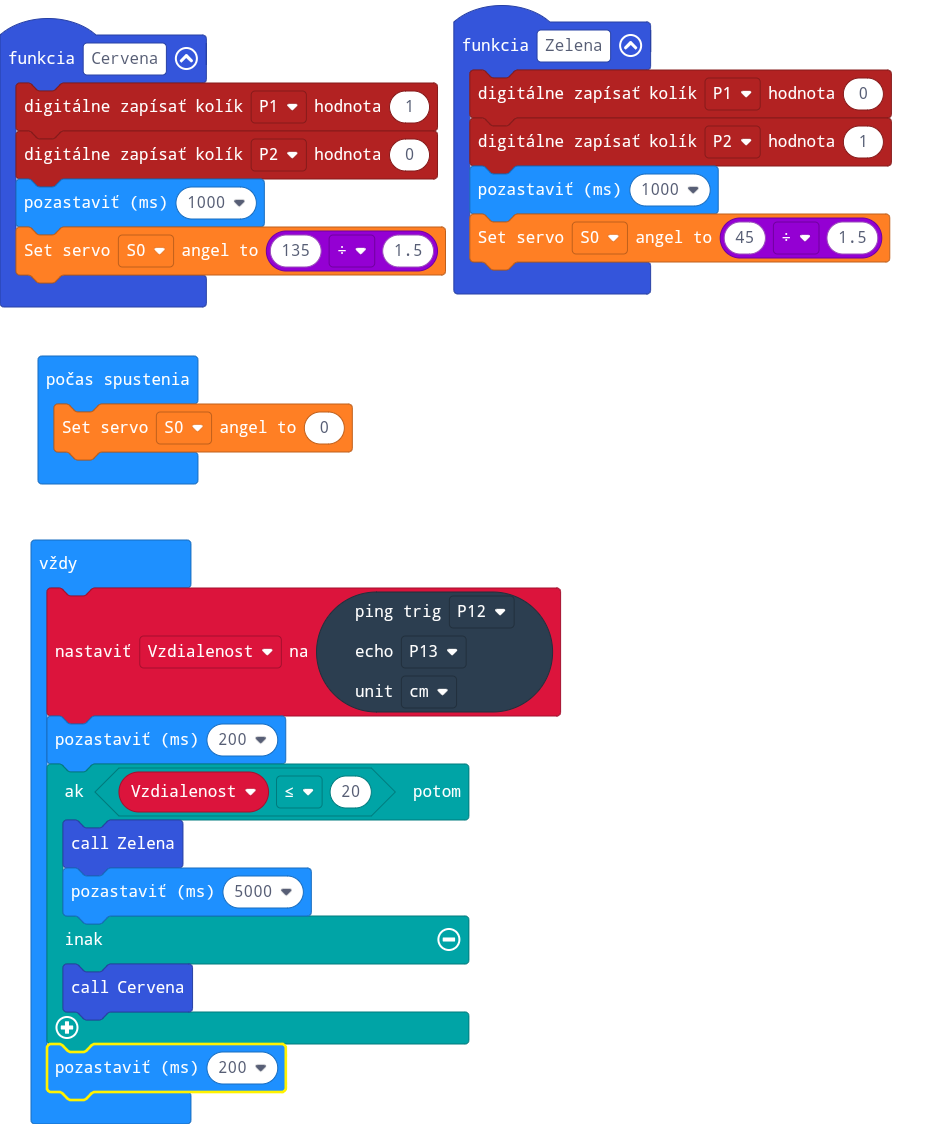
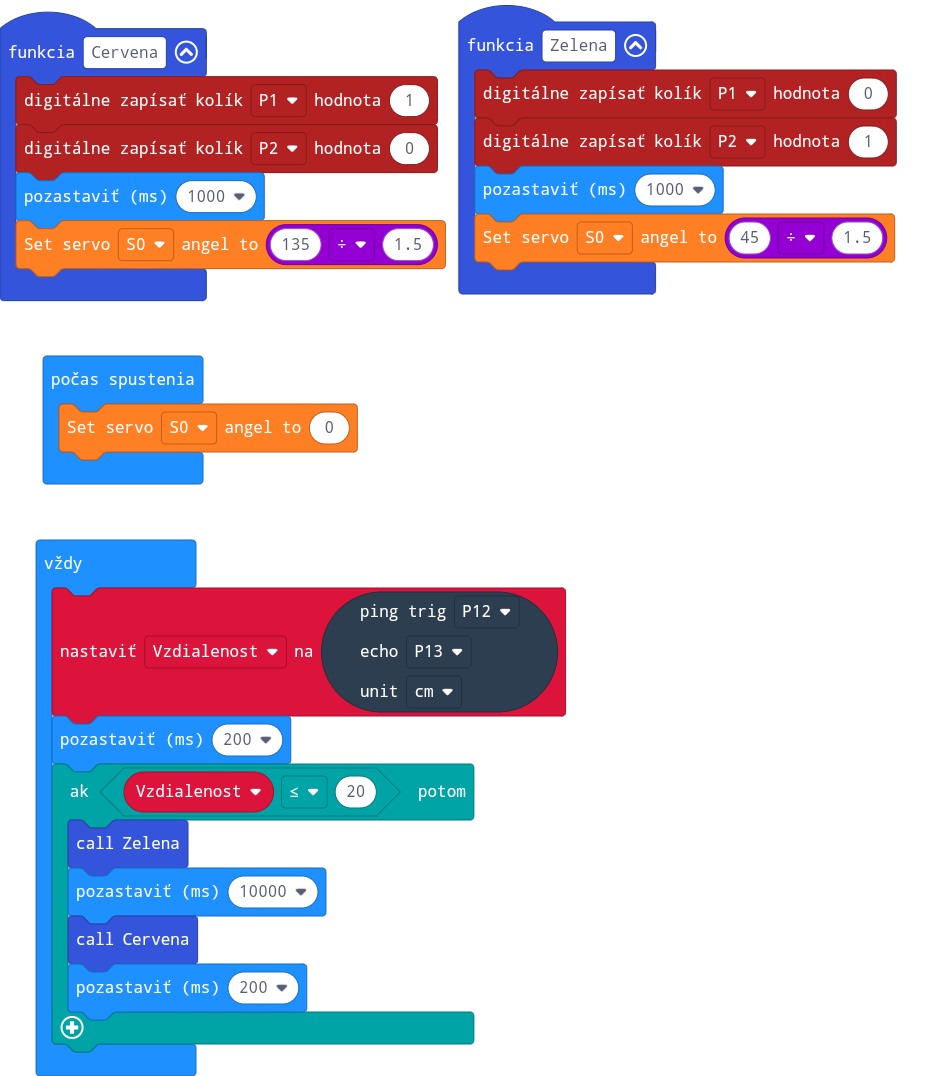
Update main.blocks, main.ts

Changed region(s): [[0.0, 0.0, 0.9533, 1.0]]

diff --git a/main.ts b/main.ts
@@ -21,9 +21,8 @@ basic.forever(function () {
     basic.pause(200)
     if (Vzdialenost <= 20) {
         Zelena()
-        basic.pause(5000)
-    } else {
+        basic.pause(10000)
         Cervena()
+        basic.pause(200)
     }
-    basic.pause(200)
 })
